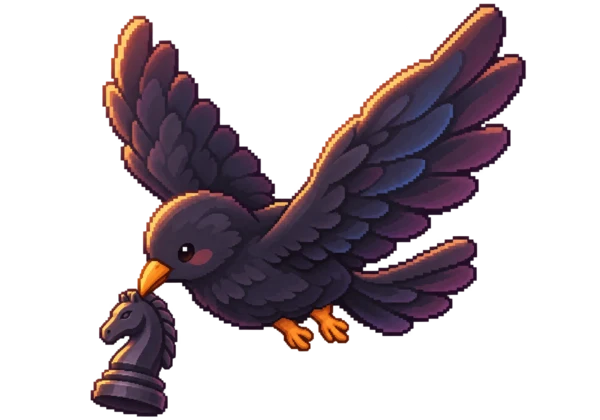
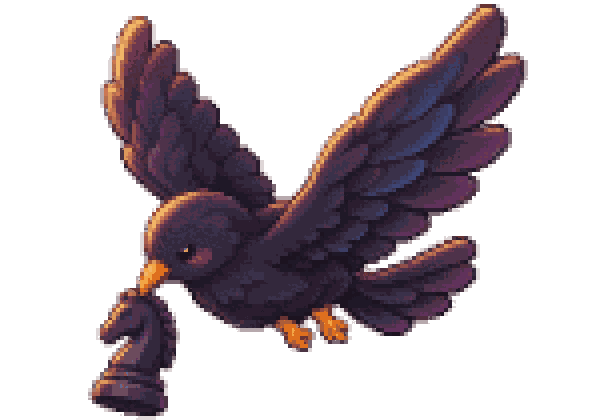
Refine lobby board composition

diff --git a/web/src/main/webapp/style.css b/web/src/main/webapp/style.css
@@ -740,8 +740,8 @@ body[data-room-state="searching"] .lobby-details { display: none; }
   transform: translateX(-3px);
 }
 #welcome .mode-button small {
-  color: #cfa7a1;
-  font: 700 9px/1.15 'Lobby Pixel', monospace;
+  color: #f0cda9;
+  font: 700 11px/1.15 'Lobby Pixel', monospace;
   letter-spacing: 0;
   text-align: right;
   text-shadow: 1px 1px 0 #211226;
@@ -847,10 +847,10 @@ body[data-room-state="searching"] .lobby-details { display: none; }
   margin: 10px 0 0;
   padding: 0;
   border: 0;
-  color: #d9b995;
+  color: #f0cda9;
   background: transparent;
   box-shadow: none;
-  font-size: 9px;
+  font-size: 11px;
   line-height: 1.35;
   text-align: center;
 }
@@ -879,17 +879,29 @@ body[data-room-state="searching"] .lobby-details { display: none; }
 }
 #welcome > .lobby-foreground {
   z-index: 2;
-  right: clamp(-52px, -2vw, -18px);
-  bottom: clamp(-58px, -4vh, -26px);
+  right: 5vw;
+  bottom: 3vh;
   left: auto;
-  width: min(61vw, 1050px);
+  width: min(43vw, 820px);
   transform: none;
-  filter: drop-shadow(0 16px 14px #1b122694);
+  filter: drop-shadow(0 8px 0 #1b122654);
+}
+#welcome > .lobby-foreground::after {
+  content: '';
+  position: absolute;
+  z-index: -1;
+  right: 8%;
+  bottom: -1.5%;
+  left: 8%;
+  height: 8%;
+  background: radial-gradient(ellipse, #1a1325b8 0 54%, #1a132568 55% 67%, transparent 68%);
+  transform: scaleY(.55);
 }
 .lobby-table-art { content: url('./art/lobby-table-redesign.webp'); }
 .lobby-piece {
-  font-size: clamp(15px, 2.05vw, 35px);
-  filter: drop-shadow(0 2px 0 #211329);
+  font-size: clamp(13px, 1.25vw, 23px);
+  filter: drop-shadow(0 1px 0 #211329);
+  -webkit-font-smoothing: none;
 }
 .lobby-piece.black {
   color: #302a43;
@@ -902,51 +914,43 @@ body[data-room-state="searching"] .lobby-details { display: none; }
 .mechanic-bird {
   position: absolute;
   z-index: 5;
-  width: 25%;
+  width: 24%;
   height: auto;
   image-rendering: pixelated;
-  filter: drop-shadow(0 5px 3px #26152f7a);
+  filter: drop-shadow(0 3px 0 #26152f8f);
   transform-origin: center;
 }
 .black-bird {
-  left: 16%;
+  left: -7%;
   top: 7%;
-  animation: black-piece-delivery 9s steps(9, end) infinite;
+  animation: black-piece-delivery 3.6s steps(4, end) infinite;
 }
 .white-bird {
-  left: 53%;
-  top: 13%;
-  animation: white-piece-delivery 9s steps(9, end) infinite;
+  right: -7%;
+  left: auto;
+  top: 17%;
+  animation: white-piece-delivery 3.6s steps(4, end) infinite;
 }
-.black-knight-source, .white-pawn-source { animation: none; }
-.delivered-piece { display: none; }
-.lobby-target {
-  width: 7.4%;
-  height: 4.7%;
-  border: max(1px, .12vw) solid #ffd06a;
-  background: #ffcf4330;
-  box-shadow: 0 0 8px #ffc55d87;
-  opacity: .68;
-  transform: skewX(-5deg);
-  animation: target-piece-cycle 9s steps(2, end) infinite;
+.lobby-origin {
+  position: absolute;
+  z-index: 3;
+  border: max(1px, .11vw) dashed #ffd376;
+  background: #ffc55424;
+  box-shadow: inset 0 0 0 max(1px, .06vw) #65364c;
+  transform: skewX(-4deg);
+  animation: origin-square-pulse 2.4s steps(2, end) infinite;
 }
-.black-target { left: 36.4%; top: 23.1%; }
-.white-target { left: 51.4%; top: 31.6%; }
+.black-origin { left: 29.86%; top: 14.38%; width: 6.76%; height: 4.19%; }
+.white-origin { left: 49.36%; top: 39.5%; width: 8.5%; height: 4.19%; }
 @keyframes black-piece-delivery {
-  0%, 10%, 100% { opacity: 1; transform: translate(-30%, -22%) rotate(-7deg) scale(.76); }
-  16% { opacity: 1; }
-  48% { opacity: 1; transform: translate(4%, 13%) rotate(2deg) scale(.94); }
-  63% { opacity: 1; transform: translate(18%, 32%) rotate(-2deg) scale(.9); }
-  70%, 92% { opacity: 1; transform: translate(35%, 18%) rotate(7deg) scale(.78); }
+  0%, 100% { transform: translate(0, 2%) rotate(-3deg) scale(.9); }
+  50% { transform: translate(5%, -4%) rotate(2deg) scale(.94); }
 }
 @keyframes white-piece-delivery {
-  0%, 10%, 100% { opacity: 1; transform: translate(28%, -24%) rotate(7deg) scale(.76); }
-  16% { opacity: 1; }
-  48% { opacity: 1; transform: translate(1%, 11%) rotate(-2deg) scale(.94); }
-  63% { opacity: 1; transform: translate(-15%, 32%) rotate(2deg) scale(.9); }
-  70%, 92% { opacity: 1; transform: translate(-34%, 16%) rotate(-7deg) scale(.78); }
+  0%, 100% { transform: translate(0, 2%) rotate(3deg) scale(.9); }
+  50% { transform: translate(-5%, -4%) rotate(-2deg) scale(.94); }
 }
-@keyframes target-piece-cycle { 0%, 100% { opacity: .5; } 50% { opacity: .9; } }
+@keyframes origin-square-pulse { 0%, 100% { opacity: .55; } 50% { opacity: .95; } }
 #welcome.menu-open .lobby-foreground,
 #welcome.challenge-open.menu-open .lobby-foreground,
 body[data-room-state="waiting"] .lobby-foreground,
@@ -960,7 +964,7 @@ body[data-room-state="searching"] .lobby-menu-card { visibility: hidden; }
   .title-logo { width: min(35vw, 390px); }
   .lobby-menu-card { width: min(36vw, 390px); padding: 15px 16px 12px; }
   #welcome .mode-button { min-height: 47px; font-size: 15px; }
-  #welcome > .lobby-foreground { width: min(59vw, 800px); right: -28px; bottom: -42px; }
+  #welcome > .lobby-foreground { width: min(44vw, 600px); right: 3vw; bottom: 3vh; }
   .share-card { left: 4vw; width: min(36vw, 390px); }
 }
 
@@ -1006,14 +1010,17 @@ body[data-room-state="searching"] .lobby-menu-card { visibility: hidden; }
     border-left-width: 4px;
     font-size: 14px;
   }
-  #welcome .mode-button small { font-size: 7px; }
+  #welcome .mode-button small { font-size: 8px; }
   .lobby-secondary { gap: 4px; margin-top: 9px; padding-top: 9px; }
   #welcome .secondary-button { min-height: 29px; padding: 5px 4px; font-size: 7px; }
-  #welcome #status { margin-top: 7px; font-size: 8px; }
+  #welcome #status { margin-top: 7px; font-size: 9px; }
   #welcome > .lobby-foreground {
     bottom: 15px;
     width: min(104vw, 430px);
   }
+  .mechanic-bird { width: 22%; }
+  .black-bird { left: 1%; top: 7%; }
+  .white-bird { right: 1%; top: 17%; }
   .lobby-piece { font-size: clamp(12px, 5.1vw, 19px); }
   .share-card { top: 22%; }
   #welcome.challenge-open .lobby-foreground { opacity: 0; }
@@ -1029,9 +1036,7 @@ body[data-room-state="searching"] .lobby-menu-card { visibility: hidden; }
 
 @media (prefers-reduced-motion: reduce) {
   .mechanic-bird { animation: none; opacity: 1; }
-  .black-bird { transform: translate(12%, 24%) scale(.9); }
-  .white-bird { transform: translate(-10%, 24%) scale(.9); }
-  .black-knight-source, .white-pawn-source { opacity: 0; animation: none; }
-  .delivered-piece { opacity: 1; animation: none; }
-  .lobby-target { opacity: .7; animation: none; }
+  .black-bird { transform: rotate(-3deg) scale(.9); }
+  .white-bird { transform: rotate(3deg) scale(.9); }
+  .lobby-origin { opacity: .8; animation: none; }
 }

diff --git a/web/src/main/webapp/index.html b/web/src/main/webapp/index.html
@@ -191,7 +191,6 @@
       <img class="lobby-table-art" src="./art/lobby-table-redesign.webp" alt="" width="1200" height="800">
       <div class="lobby-board-scene">
         <span class="lobby-piece black" style="--x:26.484%;--y:16.469%;--depth:0.063">♜</span>
-        <span class="lobby-piece black black-knight-source" style="--x:33.244%;--y:16.469%;--depth:0.063">♞</span>
         <span class="lobby-piece black" style="--x:40.004%;--y:16.469%;--depth:0.063">♝</span>
         <span class="lobby-piece black" style="--x:46.763%;--y:16.469%;--depth:0.063">♛</span>
         <span class="lobby-piece black" style="--x:53.523%;--y:16.469%;--depth:0.063">♚</span>
@@ -210,7 +209,6 @@
         <span class="lobby-piece white" style="--x:28.107%;--y:41.594%;--depth:0.813">♙</span>
         <span class="lobby-piece white" style="--x:36.609%;--y:41.594%;--depth:0.813">♙</span>
         <span class="lobby-piece white" style="--x:45.111%;--y:41.594%;--depth:0.813">♙</span>
-        <span class="lobby-piece white white-pawn-source" style="--x:53.613%;--y:41.594%;--depth:0.813">♙</span>
         <span class="lobby-piece white" style="--x:62.115%;--y:41.594%;--depth:0.813">♙</span>
         <span class="lobby-piece white" style="--x:70.617%;--y:41.594%;--depth:0.813">♙</span>
         <span class="lobby-piece white" style="--x:79.119%;--y:41.594%;--depth:0.813">♙</span>
@@ -222,10 +220,8 @@
         <span class="lobby-piece white" style="--x:62.420%;--y:45.781%;--depth:0.938">♗</span>
         <span class="lobby-piece white" style="--x:71.213%;--y:45.781%;--depth:0.938">♘</span>
         <span class="lobby-piece white" style="--x:80.005%;--y:45.781%;--depth:0.938">♖</span>
-        <span class="lobby-piece black delivered-piece delivered-knight" style="--x:40.100%;--y:25.406%;--depth:0.313">♞</span>
-        <span class="lobby-piece white delivered-piece delivered-pawn" style="--x:55.200%;--y:33.938%;--depth:0.563">♙</span>
-        <span class="lobby-target black-target"></span>
-        <span class="lobby-target white-target"></span>
+        <span class="lobby-origin black-origin" aria-hidden="true"></span>
+        <span class="lobby-origin white-origin" aria-hidden="true"></span>
         <img class="mechanic-bird black-bird" src="./art/black-carry-bird.webp" alt="" width="600" height="420">
         <img class="mechanic-bird white-bird" src="./art/white-carry-bird.webp" alt="" width="600" height="420">
       </div>
